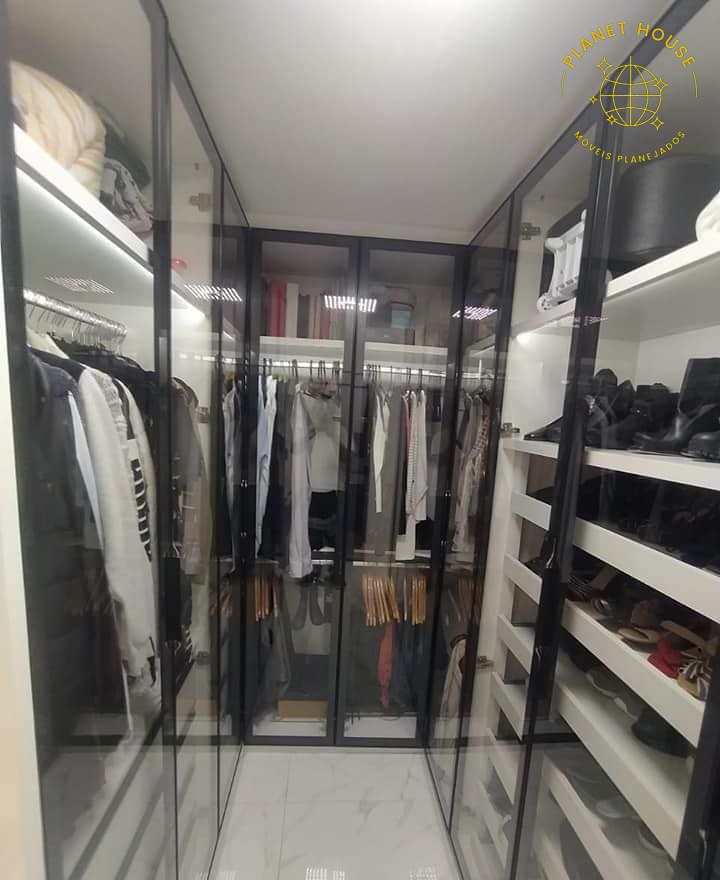
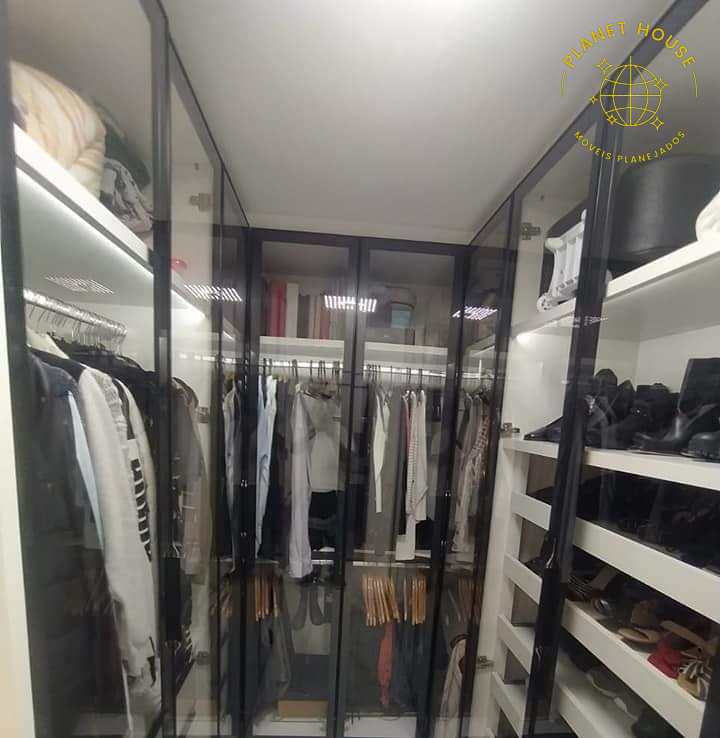
save

diff --git a/pages/index.js b/pages/index.js
@@ -69,7 +69,7 @@ export default function Home() {
             <iframe src="https://www.facebook.com/plugins/video.php?height=476&href=https%3A%2F%2Fwww.facebook.com%2Fplanethousemoveisplanejados%2Fvideos%2F947463269072240%2F&show_text=false&width=267&t=0" width="400" height="240"></iframe>
             <iframe src="https://www.facebook.com/plugins/video.php?height=476&href=https%3A%2F%2Fwww.facebook.com%2Fplanethousemoveisplanejados%2Fvideos%2F266554894820795%2F&show_text=false&width=261&t=0" width="400" height="240"></iframe>
             <iframe src="https://www.facebook.com/plugins/video.php?height=476&href=https%3A%2F%2Fwww.facebook.com%2Fplanethousemoveisplanejados%2Fvideos%2F521239651983527%2F&show_text=false&width=476&t=0" width="400" height="240"></iframe>
-            <img src="models/closet.png" width="240" height="290"></img>
+            <img src="models/closet.png" width="240" height="240"></img>
           </div>
         </div>
       </div>
